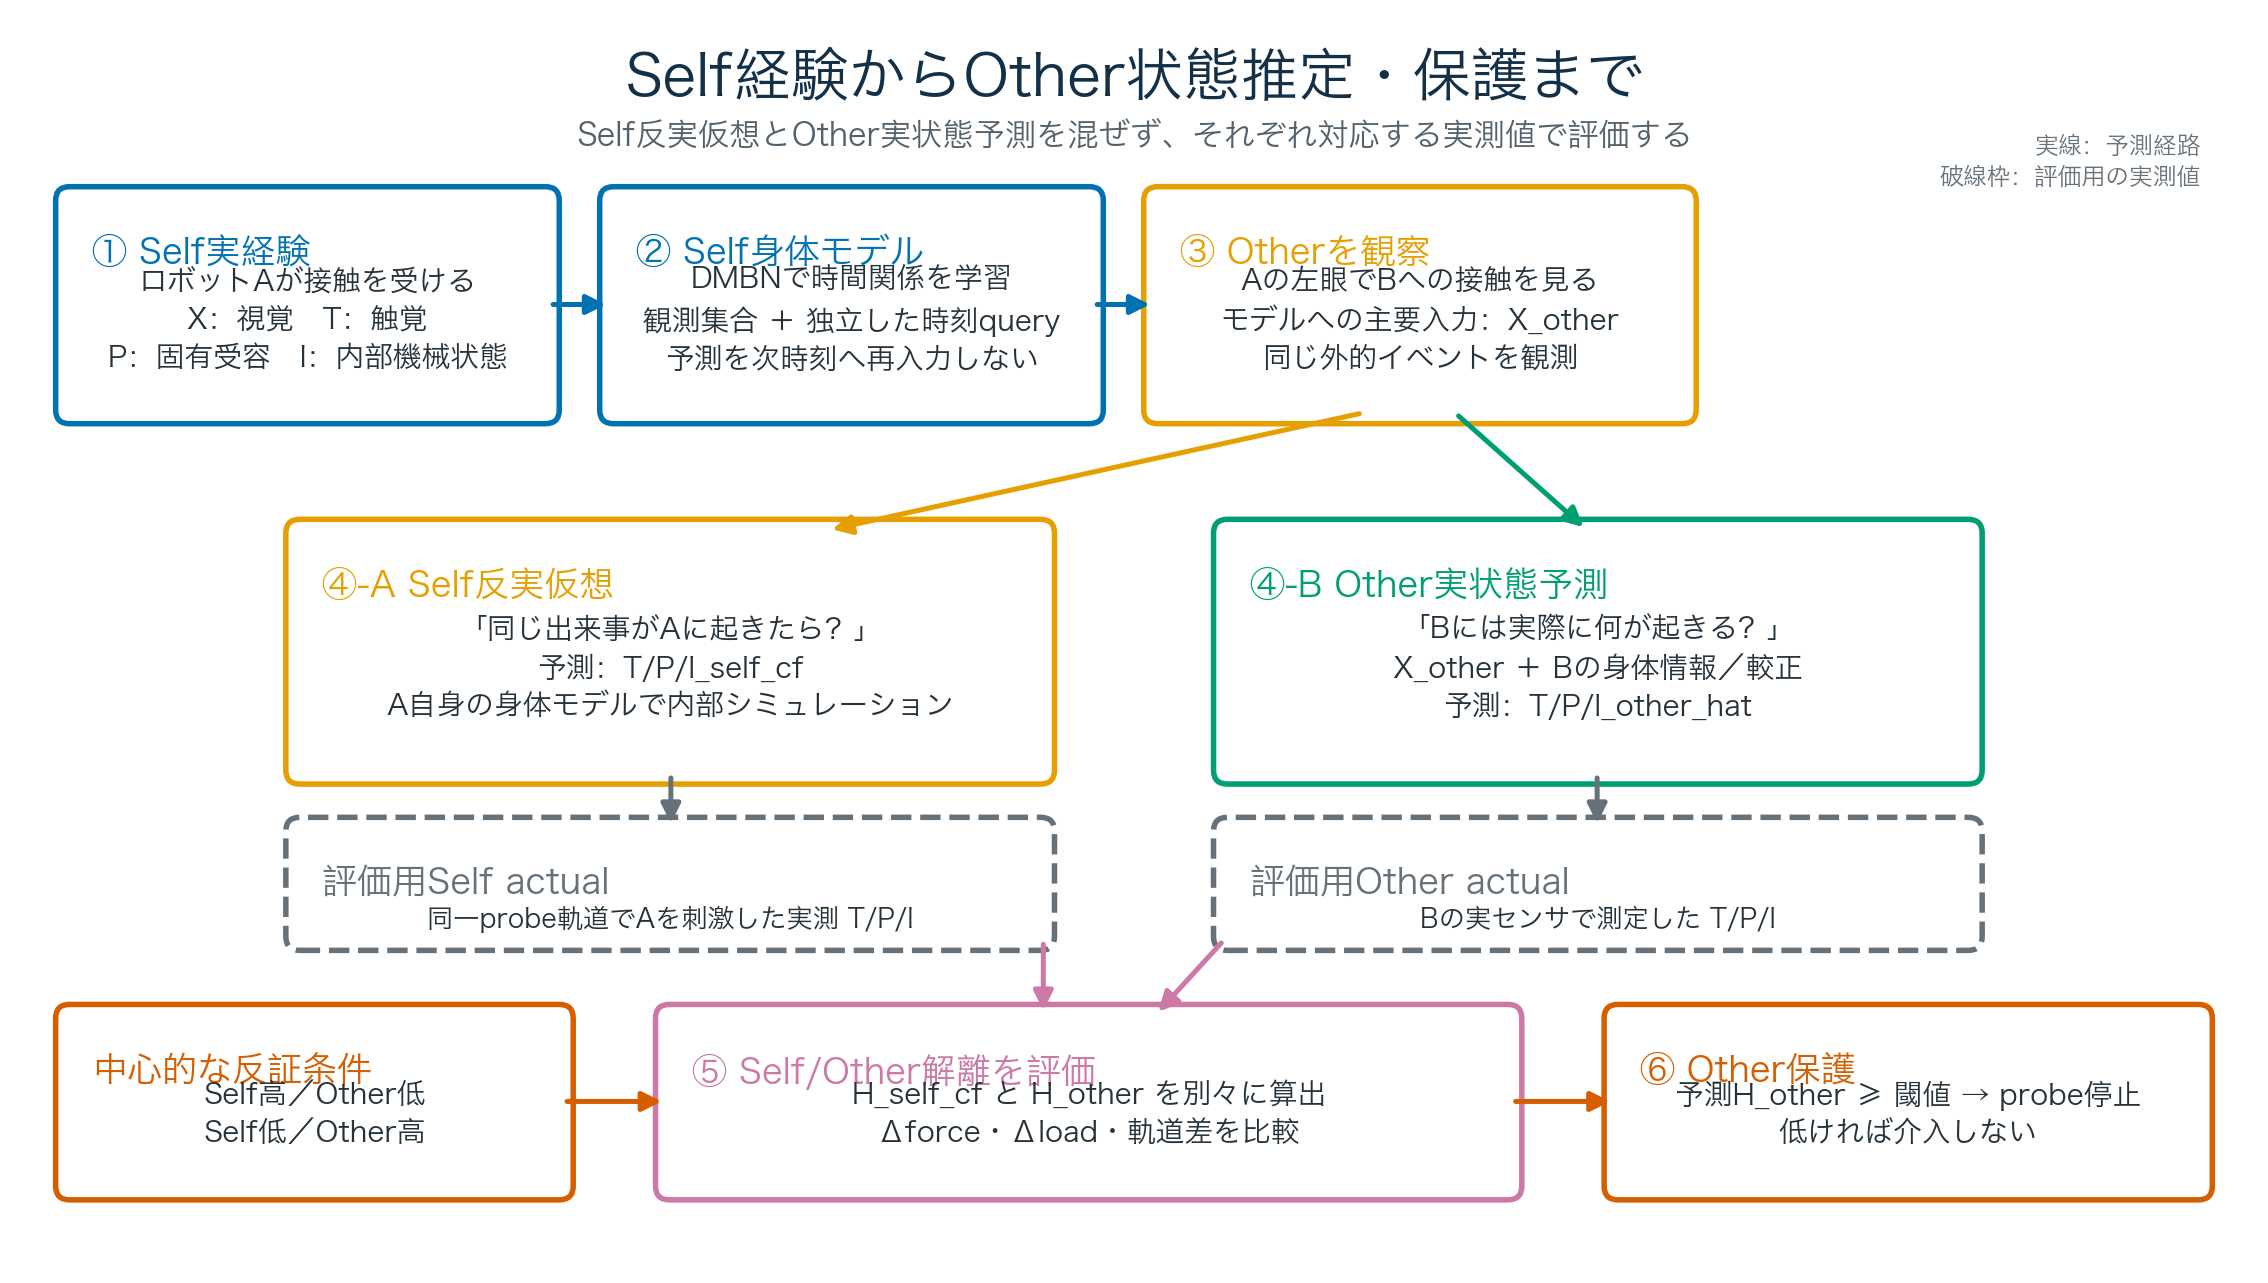
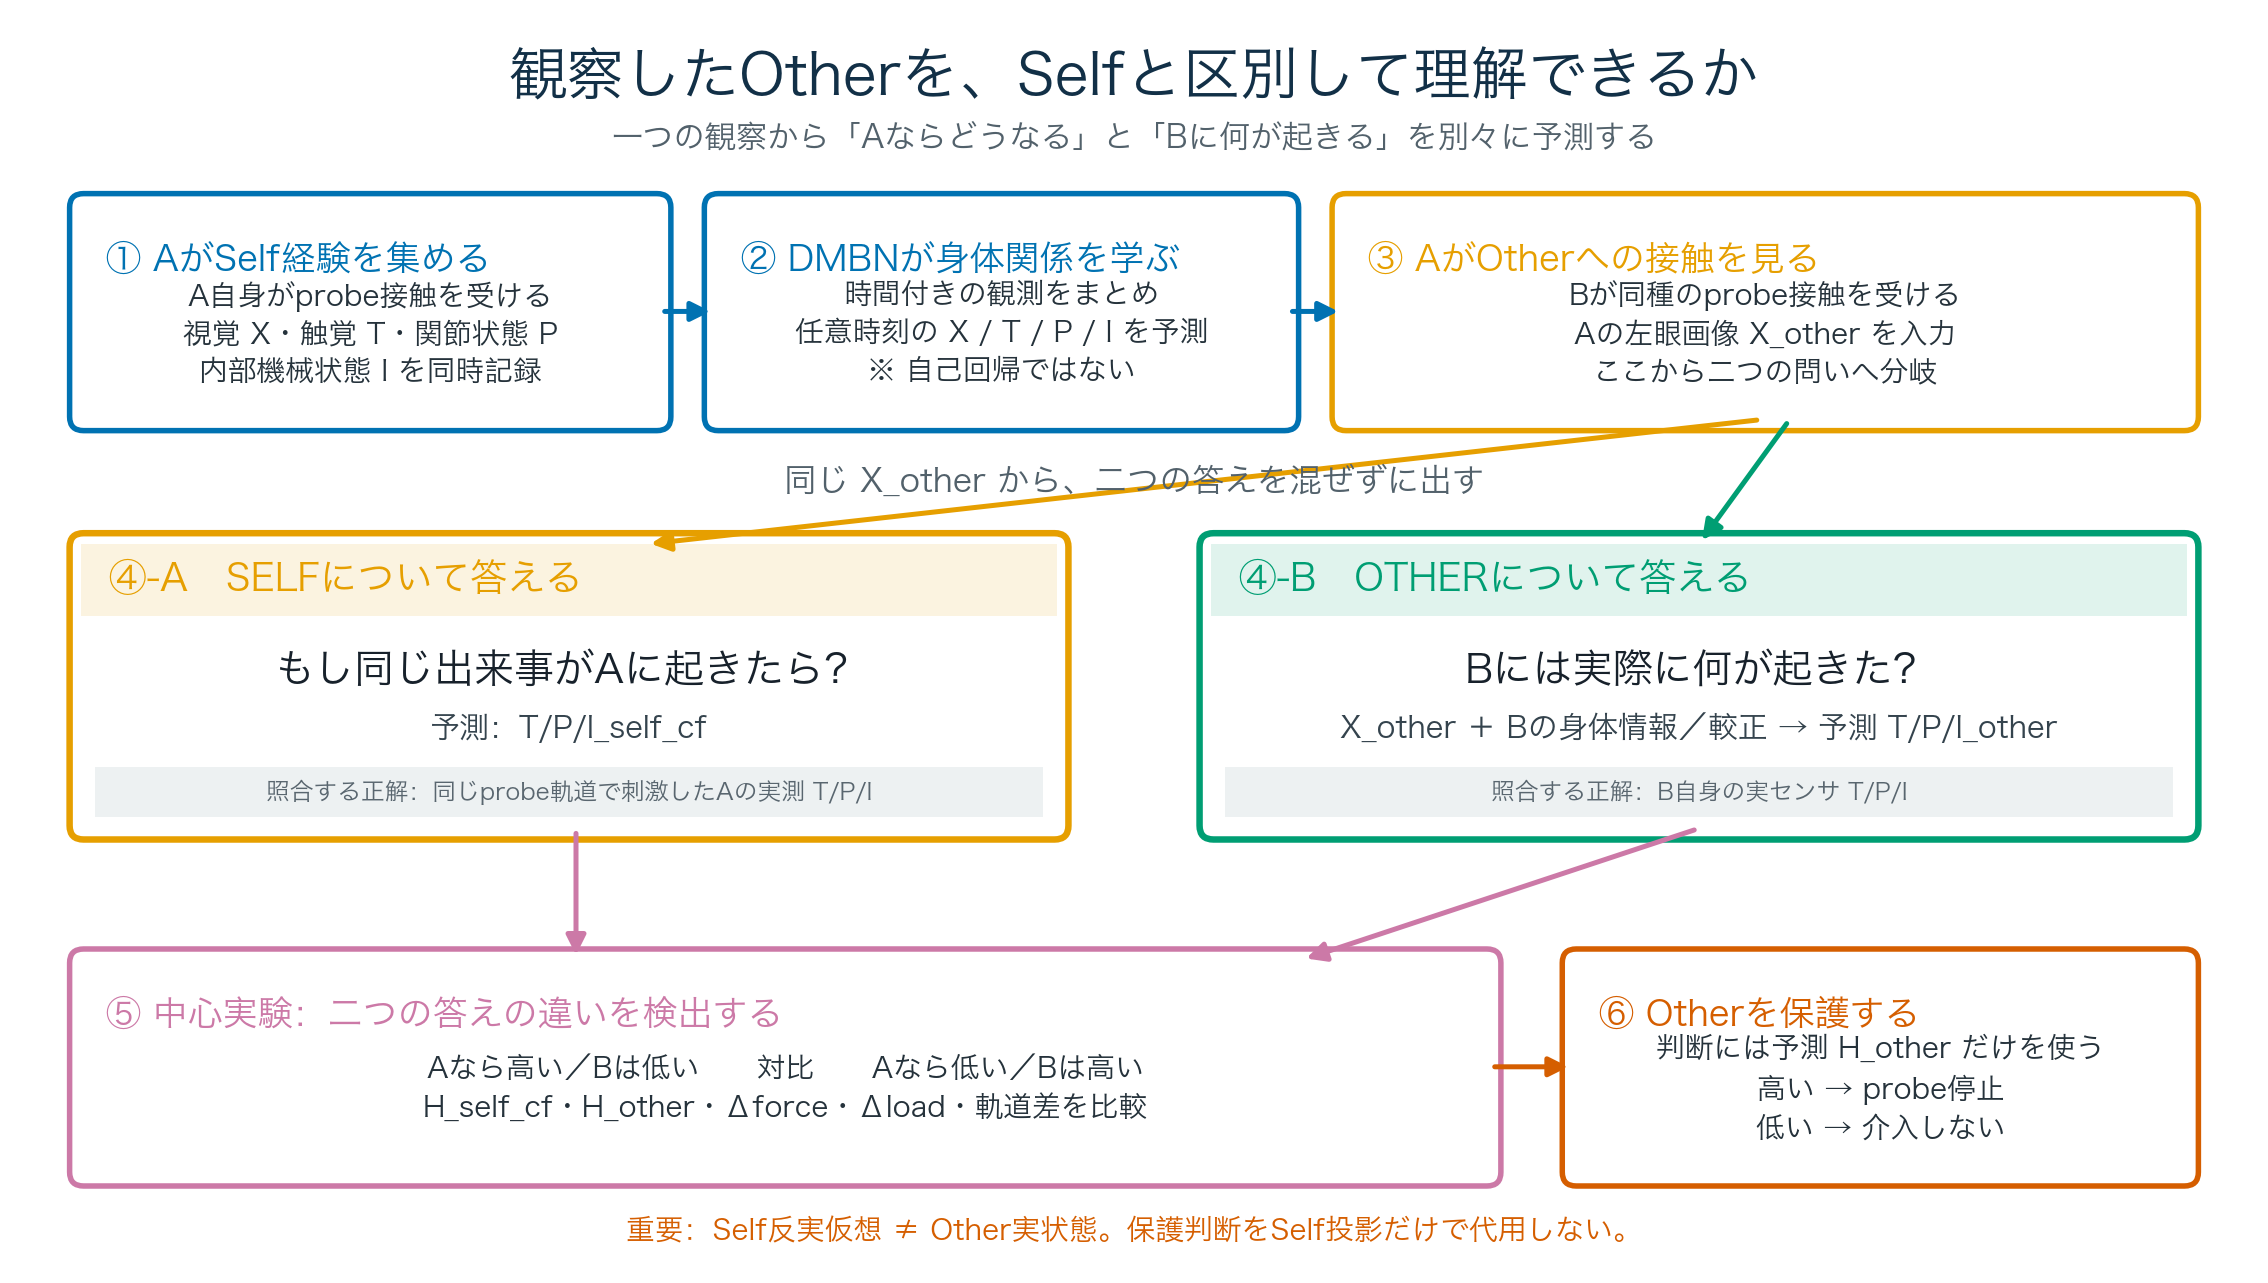
Simplify Japanese study design figure

Changed region(s): [[0.0, 0.0312, 0.9877, 0.9665], [0.9568, 0.6235, 0.9877, 0.6547], [0.0309, 0.6235, 0.0617, 0.6547]]

diff --git a/experiments/pain_self_other/report_figures.py b/experiments/pain_self_other/report_figures.py
@@ -100,18 +100,7 @@ def study_design_ja() -> None:
     axis.set_ylim(0, 9)
     axis.axis("off")
 
-    def box(
-        x: float,
-        y: float,
-        width: float,
-        height: float,
-        title: str,
-        body: str,
-        color: str,
-        dashed: bool = False,
-        body_fraction: float = 0.43,
-        body_size: float = 11.5,
-    ) -> None:
+    def box(x: float, y: float, width: float, height: float, title: str, body: str, color: str) -> None:
         axis.add_patch(
             FancyBboxPatch(
                 (x, y),
@@ -119,45 +108,65 @@ def study_design_ja() -> None:
                 height,
                 boxstyle="round,pad=0.08,rounding_size=0.10",
                 linewidth=2.2,
-                linestyle="--" if dashed else "-",
                 edgecolor=color,
                 facecolor="white",
             )
         )
         axis.text(x + 0.18, y + height - 0.28, title, ha="left", va="top", fontsize=14, color=color, fontproperties=JP_BOLD)
-        axis.text(x + width / 2, y + height * body_fraction, body, ha="center", va="center", fontsize=body_size, color="#25323b", fontproperties=JP_FONT, linespacing=1.45)
+        axis.text(x + width / 2, y + height * 0.40, body, ha="center", va="center", fontsize=11.5, color="#25323b", fontproperties=JP_FONT, linespacing=1.45)
+
+    def prediction_card(
+        x: float,
+        title: str,
+        question: str,
+        output: str,
+        reference: str,
+        color: str,
+    ) -> None:
+        y, width, height = 3.15, 7.0, 2.05
+        axis.add_patch(
+            FancyBboxPatch(
+                (x, y),
+                width,
+                height,
+                boxstyle="round,pad=0.08,rounding_size=0.10",
+                linewidth=2.6,
+                edgecolor=color,
+                facecolor="white",
+            )
+        )
+        axis.add_patch(plt.Rectangle((x, y + height - 0.52), width, 0.52, color=color, alpha=0.12, linewidth=0))
+        axis.text(x + 0.2, y + height - 0.26, title, ha="left", va="center", fontsize=15, color=color, fontproperties=JP_BOLD)
+        axis.text(x + width / 2, y + 1.13, question, ha="center", va="center", fontsize=16, color="#17212b", fontproperties=JP_BOLD)
+        axis.text(x + width / 2, y + 0.72, output, ha="center", va="center", fontsize=12, color="#34434d", fontproperties=JP_FONT)
+        axis.add_patch(plt.Rectangle((x + 0.10, y + 0.08), width - 0.20, 0.36, color="#edf1f2", linewidth=0))
+        axis.text(x + width / 2, y + 0.26, reference, ha="center", va="center", fontsize=9.5, color="#59666f", fontproperties=JP_FONT)
 
     def arrow(start: tuple[float, float], end: tuple[float, float], color: str = "#52616b") -> None:
         axis.add_patch(FancyArrowPatch(start, end, arrowstyle="-|>", mutation_scale=16, color=color, linewidth=2.0, connectionstyle="arc3,rad=0"))
 
-    axis.text(8, 8.55, "Self経験からOther状態推定・保護まで", ha="center", va="center", fontsize=23, color="#123047", fontproperties=JP_BOLD)
-    axis.text(8, 8.14, "Self反実仮想とOther実状態予測を混ぜず、それぞれ対応する実測値で評価する", ha="center", va="center", fontsize=12.5, color="#52616b", fontproperties=JP_FONT)
+    axis.text(8, 8.56, "観察したOtherを、Selfと区別して理解できるか", ha="center", va="center", fontsize=23, color="#123047", fontproperties=JP_BOLD)
+    axis.text(8, 8.13, "一つの観察から「Aならどうなる」と「Bに何が起きる」を別々に予測する", ha="center", va="center", fontsize=12.5, color="#52616b", fontproperties=JP_FONT)
 
-    box(0.35, 6.15, 3.45, 1.55, "① Self実経験", "ロボットAが接触を受ける\nX：視覚　T：触覚\nP：固有受容　I：内部機械状態", COLORS["blue"])
-    box(4.25, 6.15, 3.45, 1.55, "② Self身体モデル", "DMBNで時間関係を学習\n観測集合 ＋ 独立した時刻query\n予測を次時刻へ再入力しない", COLORS["blue"])
-    box(8.15, 6.15, 3.8, 1.55, "③ Otherを観察", "Aの左眼でBへの接触を見る\nモデルへの主要入力：X_other\n同じ外的イベントを観測", COLORS["orange"])
-    arrow((3.8, 6.93), (4.25, 6.93), COLORS["blue"])
-    arrow((7.7, 6.93), (8.15, 6.93), COLORS["blue"])
+    box(0.45, 6.10, 4.15, 1.55, "① AがSelf経験を集める", "A自身がprobe接触を受ける\n視覚 X・触覚 T・関節状態 P\n内部機械状態 I を同時記録", COLORS["blue"])
+    box(5.00, 6.10, 4.10, 1.55, "② DMBNが身体関係を学ぶ", "時間付きの観測をまとめ\n任意時刻の X / T / P / I を予測\n※ 自己回帰ではない", COLORS["blue"])
+    box(9.50, 6.10, 6.05, 1.55, "③ AがOtherへの接触を見る", "Bが同種のprobe接触を受ける\nAの左眼画像 X_other を入力\nここから二つの問いへ分岐", COLORS["orange"])
+    arrow((4.60, 6.88), (5.00, 6.88), COLORS["blue"])
+    arrow((9.10, 6.88), (9.50, 6.88), COLORS["blue"])
 
-    box(2.0, 3.55, 5.35, 1.75, "④-A Self反実仮想", "「同じ出来事がAに起きたら？」\n予測：T/P/I_self_cf\nA自身の身体モデルで内部シミュレーション", COLORS["orange"])
-    box(8.65, 3.55, 5.35, 1.75, "④-B Other実状態予測", "「Bには実際に何が起きる？」\nX_other ＋ Bの身体情報／較正\n予測：T/P/I_other_hat", COLORS["green"])
-    arrow((9.65, 6.15), (5.8, 5.3), COLORS["orange"])
-    arrow((10.3, 6.15), (11.25, 5.3), COLORS["green"])
+    axis.text(8, 5.65, "同じ X_other から、二つの答えを混ぜずに出す", ha="center", va="center", fontsize=13, color="#52616b", fontproperties=JP_BOLD)
+    prediction_card(0.45, "④-A　SELFについて答える", "もし同じ出来事がAに起きたら？", "予測：T/P/I_self_cf", "照合する正解：同じprobe軌道で刺激したAの実測 T/P/I", COLORS["orange"])
+    prediction_card(8.55, "④-B　OTHERについて答える", "Bには実際に何が起きた？", "X_other ＋ Bの身体情報／較正 → 予測 T/P/I_other", "照合する正解：B自身の実センサ T/P/I", COLORS["green"])
+    arrow((12.50, 6.10), (4.50, 5.20), COLORS["orange"])
+    arrow((12.70, 6.10), (12.05, 5.20), COLORS["green"])
 
-    box(2.0, 2.35, 5.35, 0.80, "評価用Self actual", "同一probe軌道でAを刺激した実測 T/P/I", "#66717a", dashed=True, body_fraction=0.18, body_size=10.5)
-    box(8.65, 2.35, 5.35, 0.80, "評価用Other actual", "Bの実センサで測定した T/P/I", "#66717a", dashed=True, body_fraction=0.18, body_size=10.5)
-    arrow((4.68, 3.55), (4.68, 3.15), "#66717a")
-    arrow((11.32, 3.55), (11.32, 3.15), "#66717a")
+    box(0.45, 0.65, 10.10, 1.55, "⑤ 中心実験：二つの答えの違いを検出する", "Aなら高い／Bは低い　　対比　　Aなら低い／Bは高い\nH_self_cf・H_other・Δforce・Δload・軌道差を比較", COLORS["purple"])
+    box(11.15, 0.65, 4.40, 1.55, "⑥ Otherを保護する", "判断には予測 H_other だけを使う\n高い → probe停止\n低い → 介入しない", COLORS["red"])
+    arrow((4.00, 3.15), (4.00, 2.20), COLORS["purple"])
+    arrow((12.05, 3.15), (9.20, 2.20), COLORS["purple"])
+    arrow((10.55, 1.43), (11.15, 1.43), COLORS["red"])
 
-    box(0.35, 0.55, 3.55, 1.25, "中心的な反証条件", "Self高／Other低\nSelf低／Other高", COLORS["red"])
-    box(4.65, 0.55, 6.05, 1.25, "⑤ Self/Other解離を評価", "H_self_cf と H_other を別々に算出\nΔforce・Δload・軌道差を比較", COLORS["purple"])
-    box(11.45, 0.55, 4.2, 1.25, "⑥ Other保護", "予測H_other ≥ 閾値 → probe停止\n低ければ介入しない", COLORS["red"])
-    arrow((3.9, 1.18), (4.65, 1.18), COLORS["red"])
-    arrow((7.35, 2.35), (7.35, 1.8), COLORS["purple"])
-    arrow((8.65, 2.35), (8.15, 1.8), COLORS["purple"])
-    arrow((10.7, 1.18), (11.45, 1.18), COLORS["red"])
-
-    axis.text(15.65, 8.15, "実線：予測経路\n破線枠：評価用の実測値", ha="right", va="top", fontsize=9.5, color="#66717a", fontproperties=JP_FONT, linespacing=1.45)
+    axis.text(8, 0.24, "重要：Self反実仮想 ≠ Other実状態。保護判断をSelf投影だけで代用しない。", ha="center", va="center", fontsize=11.5, color=COLORS["red"], fontproperties=JP_BOLD)
     save(figure, "01_study_design_ja.png")
 
 
